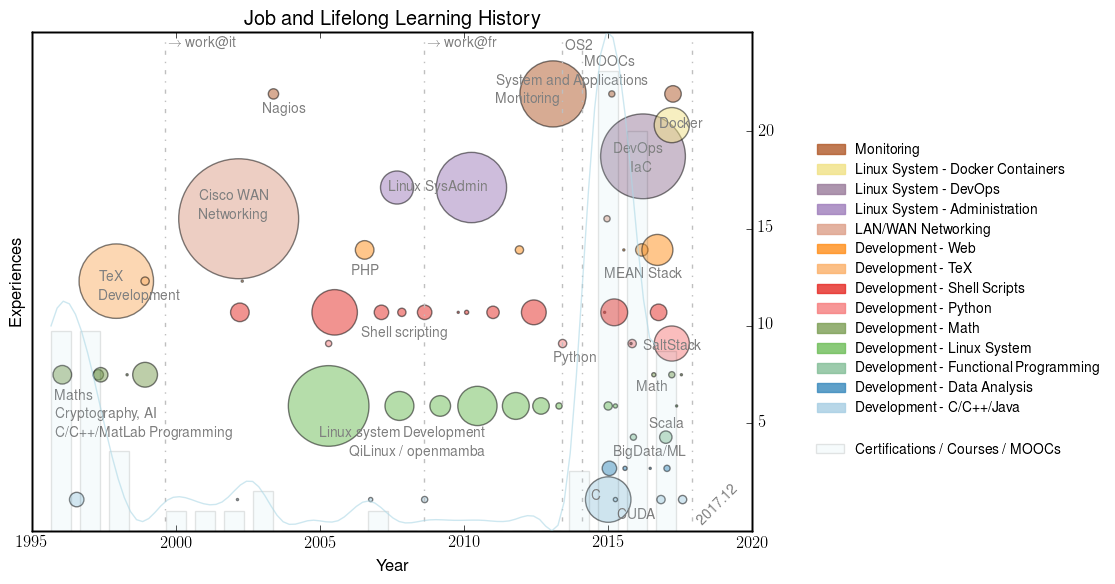
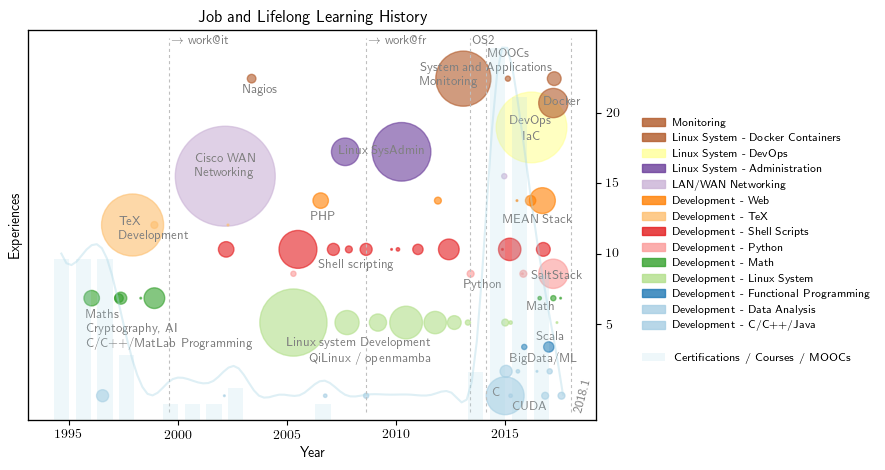
plot-experiences.py - NumPy fix
Traceback (most recent call last):
     File "./scripts/plot-experiences.py", line 242, in <module>
       main()
     File "./scripts/plot-experiences.py", line 234, in main
       fig, legend = make_jobs_plot(parser(source))
     File "./scripts/plot-experiences.py", line 194, in make_jobs_plot
       ax2.bar(years, courses, width=bar_width, color=bar_color, alpha=0.1)
     File "/home/davide/Development/GitHub/cv/pyvenv/lib64/python3.6/site-packages/matplotlib/__init__.py", line 1717, in inner
       return func(ax, *args, **kwargs)
     File "/home/davide/Development/GitHub/cv/pyvenv/lib64/python3.6/site-packages/matplotlib/axes/_axes.py", line 2019, in bar
       np.atleast_1d(x), height, width, y, linewidth)
     File "/home/davide/Development/GitHub/cv/pyvenv/lib64/python3.6/site-packages/numpy/lib/stride_tricks.py", line 249, in broadcast_arrays
       shape = _broadcast_shape(*args)
     File "/home/davide/Development/GitHub/cv/pyvenv/lib64/python3.6/site-packages/numpy/lib/stride_tricks.py", line 184, in _broadcast_shape
       b = np.broadcast(*args[:32])
   ValueError: shape mismatch: objects cannot be broadcast to a single shape

diff --git a/scripts/plot-experiences.py b/scripts/plot-experiences.py
@@ -177,9 +177,9 @@ def make_jobs_plot(experiences, area_adj=0.84):
     ax2 = ax.twinx()
     bar_color = 'lightblue'
     bar_width = .7
-    years = np.arange(1996-(bar_width/2), now.year+(bar_width/2), 1)
+    years = np.arange(1995-(bar_width/2), now.year+(bar_width/2), 1)
     courses = [
-        10, 10, 4,
+        10, 10, 10, 4,
         # 1999: start of work life
         0, 1, 1, 1, 2, 0, 0, 0, 1,
         # 2008: Moving to France... 'formation continue' :P
@@ -190,8 +190,10 @@ def make_jobs_plot(experiences, area_adj=0.84):
         # 2015   6    8      5        -   2       -         -    2
         # 2016  12    -      2        2   1       2         -    1
         # 2017   -    -      -        -   3       -         2    4
-        3, 23, 20, 9]
-    ax2.bar(years, courses, width=bar_width, color=bar_color, alpha=0.1)
+        3, 23, 20, 9,
+        # 2018
+        0]
+    ax2.bar(years, courses, width=bar_width, color=bar_color, alpha=0.2)
     ax2.set_yticks([])
     lgd2 = ax2.legend(
         ['Certifications / Courses / MOOCs'],
